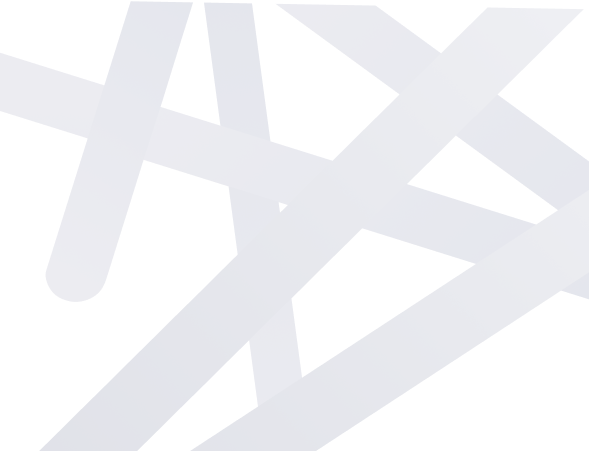
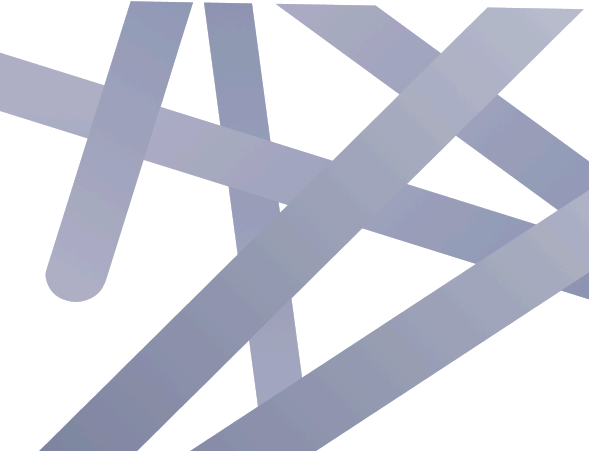
edit pattern

diff --git a/src/pages/Home/sections/PromoBenefits/index.jsx b/src/pages/Home/sections/PromoBenefits/index.jsx
@@ -19,12 +19,15 @@ const cardIcons = [
 
 const stepNums = ["۰۱", "۰۲", "۰۳", "۰۴"];
 
-/* ---- Pattern images ---- */
+/* ---- Pattern images —— NOTE: the files in /assets/Pattern/*.png
+   (yellow/blue/green/pink) are broken/blank in this project (all four
+   are byte-identical placeholders). The real textured versions live in
+   /assets/StatCard/*.png, so we use those instead. ---- */
 const patterns = [
-  "../../../../../public/assets/Pattern/yellow.png",
-  "/assets/Pattern/green.png",
-  "/assets/Pattern/blue.png",
-  "/assets/Pattern/pink.png",
+  "/assets/StatCard/yellow.png",
+  "/assets/StatCard/green.png",
+  "/assets/StatCard/blue.png",
+  "/assets/StatCard/pink.png",
 ];
 
 /* ---- Check rows per card (from HTML V5) ---- */
